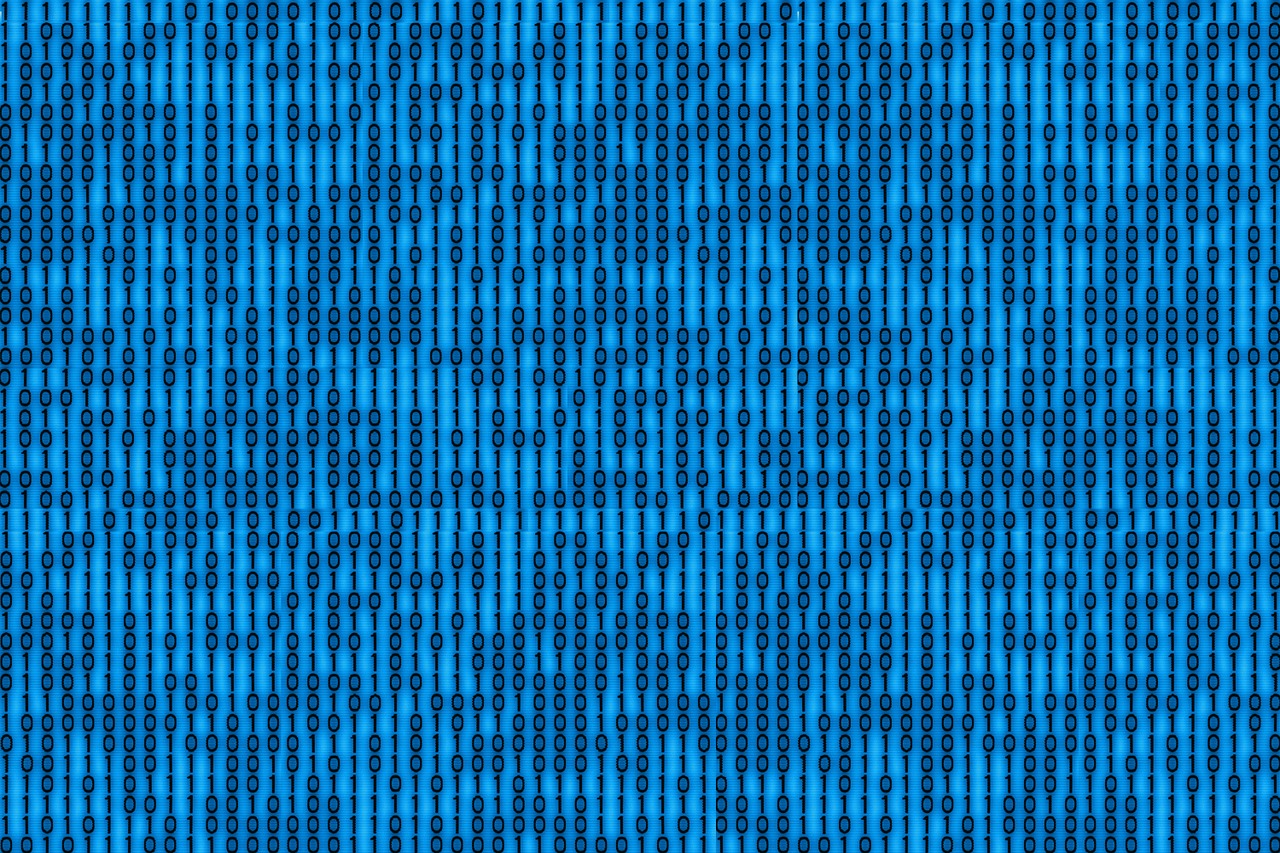
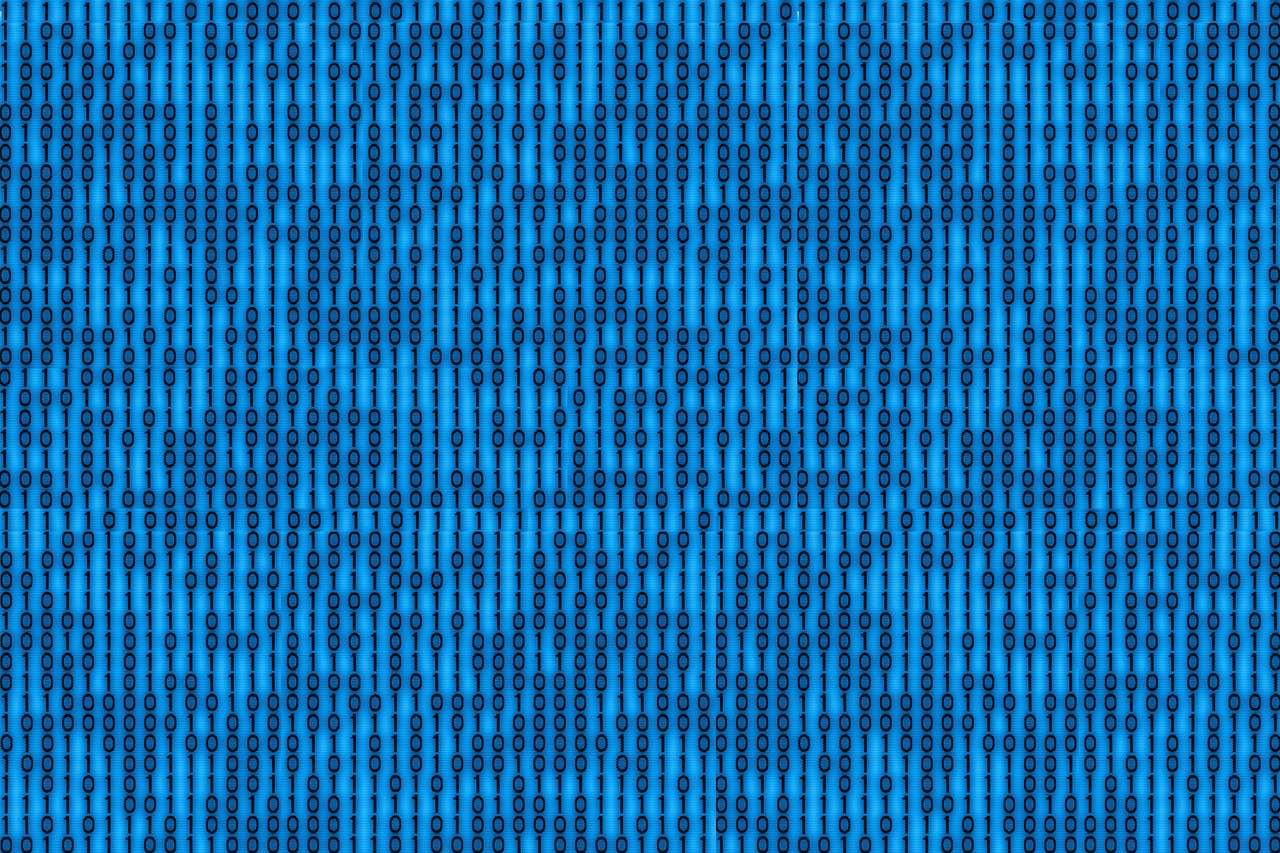
More image optimizations! Weeee

Changed region(s): [[0.0, 0.0, 1.0, 1.0]]

diff --git a/_assets/css/_custom.scss b/_assets/css/_custom.scss
@@ -9,7 +9,7 @@
 #particles-js {
   position: relative;
   background-color: #e8e8e8;
-  background-image: url("//habd.as/images/estes-1500x1500.jpeg");
+  background-image: url("//habd.as/images/estes_1280.jpeg");
   background-repeat: no-repeat;
   background-size: cover;
   background-position: 50% 50%;

diff --git a/_posts/2013-04-01-sftp-to-ubuntu-server-sublime-text.md b/_posts/2013-04-01-sftp-to-ubuntu-server-sublime-text.md
@@ -8,6 +8,7 @@ tags: [cloud, coding, ssh, ftp, ftps, sftp, linux, ubuntu]
 header:
   overlay_image: binary-1377017_1280.jpg
   overlay_filter: 0.5
+  teaser: binary-1377017_512.jpg
 ---
 {% include toc %}
 
